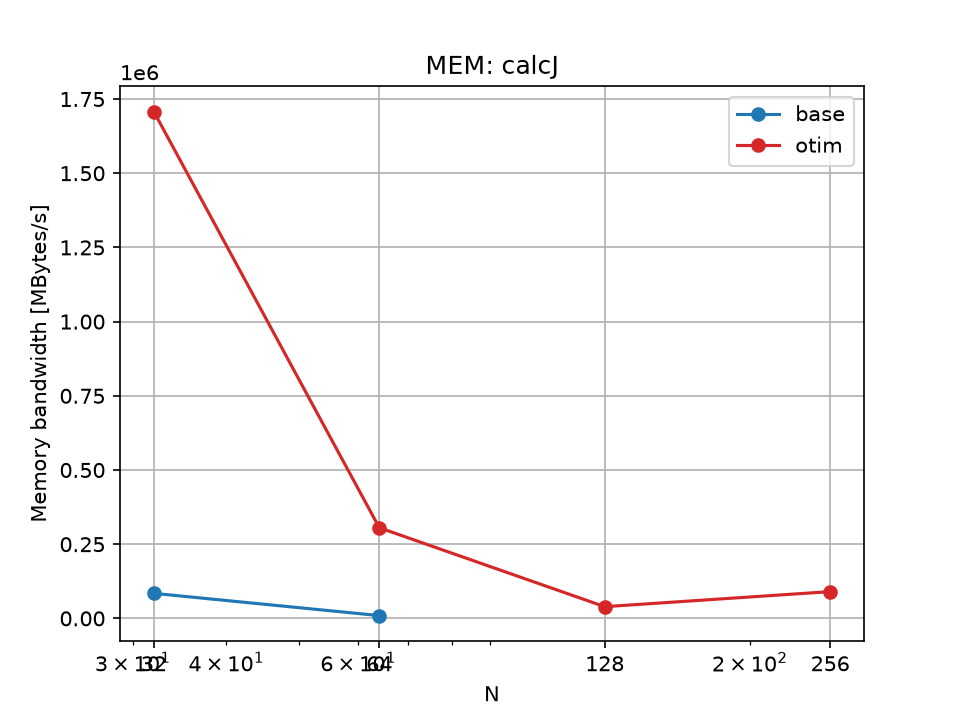
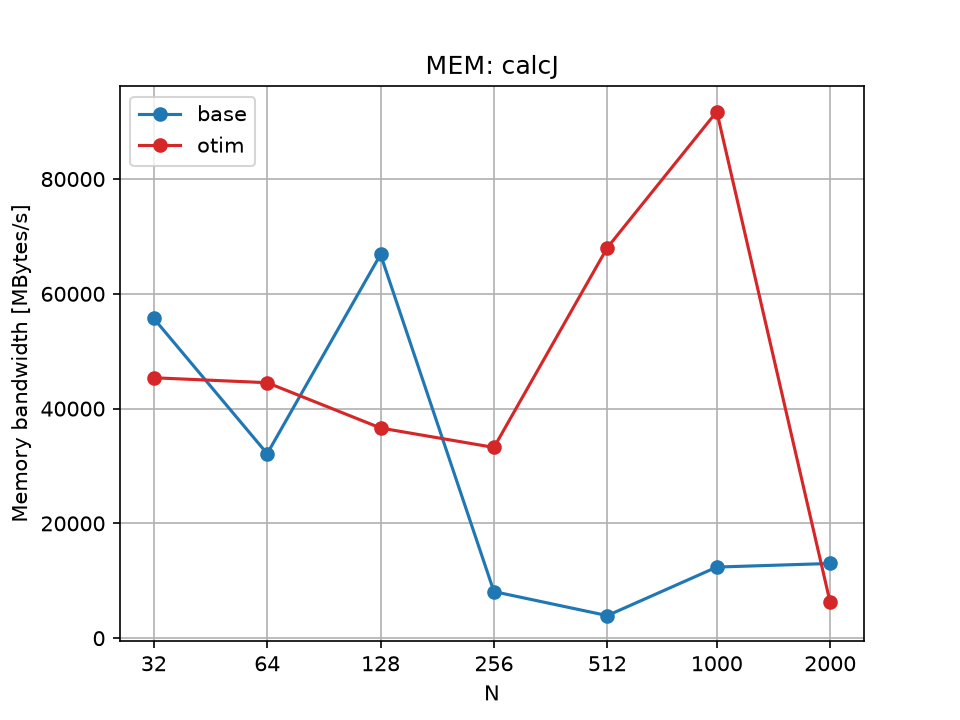
libera tamanhos maiores

diff --git a/otimizado/NewtonSNLB.c b/otimizado/NewtonSNLB.c
@@ -33,11 +33,11 @@ int newton(double *X, double epsilon, int n, int MAXIT) {
         // Calcula F(X) e J(X) para a iteracao atual
         calcF(F, X, n);
 
-        double tempoInicJ = timestamp();
         LIKWID_MARKER_START("calcJ");
+        double tempoInicJ = timestamp();
         calcJ(Jdiag, X, n);
-        LIKWID_MARKER_STOP("calcJ");
         tempoJ += timestamp() - tempoInicJ;
+        LIKWID_MARKER_STOP("calcJ");
 
         // inverte o sinal de F para resolver o sistema linear J * deltaX = -F
         for (int i = 0; i < n; ++i) {
@@ -45,11 +45,11 @@ int newton(double *X, double epsilon, int n, int MAXIT) {
         }
 
         // resolve o sistema linear J * deltaX = -F para encontrar deltaX por eliminacao de Gauss
-        double tempoInicSisLinear = timestamp();
         LIKWID_MARKER_START("eliminacaoGauss");
+        double tempoInicSisLinear = timestamp();
         eliminacaoGauss(Jdiag, S, F, n);
-        LIKWID_MARKER_STOP("eliminacaoGauss");
         tempo_sisLinear += timestamp() - tempoInicSisLinear;
+        LIKWID_MARKER_STOP("eliminacaoGauss");
 
         // Atualiza X com as soluções aproximadas.
         for (int i = 0; i < n; ++i) {

diff --git a/base/NewtonSNLB.c b/base/NewtonSNLB.c
@@ -34,11 +34,11 @@ int newton(double *X, double epsilon, int n, int MAXIT) {
         // Calcula F(X) e J(X) para a iteracao atual
         calcF(F, X, n);
 
-        double tempoInicJ = timestamp();
         LIKWID_MARKER_START("calcJ");
+        double tempoInicJ = timestamp();
         calcJ(J, X, n);
-        LIKWID_MARKER_STOP("calcJ");
         tempoJ += timestamp() - tempoInicJ;
+        LIKWID_MARKER_STOP("calcJ");
 
         // inverte o sinal de F para resolver o sistema linear J * deltaX = -F
         for (int i = 0; i < n; ++i) {
@@ -46,11 +46,11 @@ int newton(double *X, double epsilon, int n, int MAXIT) {
         }
 
         // resolve o sistema linear J * deltaX = -F para encontrar deltaX por eliminacao de Gauss
-        double tempoInicSisLinear = timestamp();
         LIKWID_MARKER_START("eliminacaoGauss");
+        double tempoInicSisLinear = timestamp();
         eliminacaoGauss(J, S, F, n);
-        LIKWID_MARKER_STOP("eliminacaoGauss");
         tempo_sisLinear += timestamp() - tempoInicSisLinear;
+        LIKWID_MARKER_STOP("eliminacaoGauss");
 
         // Atualiza X com as soluções aproximadas.
         for (int i = 0; i < n; ++i) {

diff --git a/otimizado/genplot.py b/otimizado/genplot.py
@@ -34,9 +34,17 @@ trechos = ("newton", "calcJ", "eliminacaoGauss")
 DIR_BASE = "../base/resultados"
 DIR_OTIM = "./resultados"
 
-# tamanhos na MESMA ordem em que foram rodados no gendata.sh (TAMANHOS)
-tamanhos_base = (32, 64, 128)
-tamanhos_otim = (32, 64, 128, 256)
+
+def lerTamanhos(arquivo):
+    """Tamanhos testados, na ordem em que foram rodados (1a coluna do
+    Tempos.csv, sem repetir: cada N aparece uma vez por grupo do likwid)."""
+    ns = []
+    with open(arquivo) as f:
+        for linha in f:
+            p = linha.split(",")[0]
+            if p.isdigit() and int(p) not in ns:
+                ns.append(int(p))
+    return ns
 
 
 def lerDados(arquivo, trecho, campo, tamanhos):
@@ -122,9 +130,9 @@ def gera_grafico(series, ylabel, titulo, arquivo, ylog=False):
 
 
 def main():
-    versoes = (
-        ("base", DIR_BASE, tamanhos_base),
-        ("otim", DIR_OTIM, tamanhos_otim),
+    versoes = tuple(
+        (nome, d, lerTamanhos(f"{d}/Tempos.csv"))
+        for nome, d in (("base", DIR_BASE), ("otim", DIR_OTIM))
     )
 
     for trecho in trechos:
